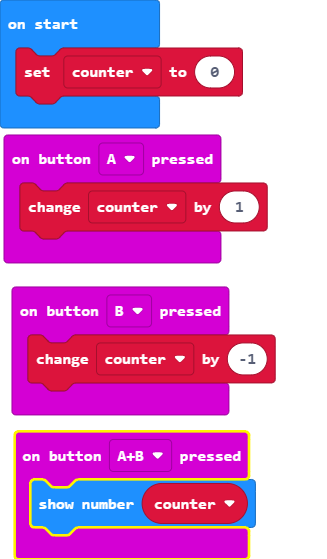
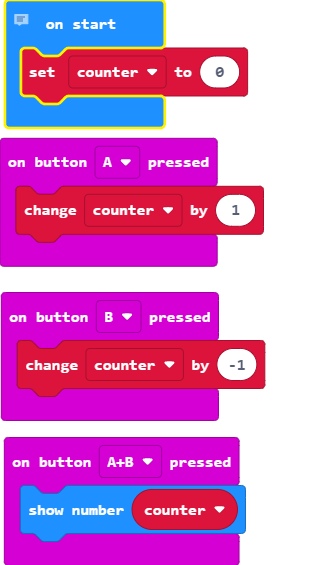
initial comment

Changed region(s): [[0.0, 0.0, 0.8517, 1.0]]

diff --git a/main.ts b/main.ts
@@ -7,5 +7,8 @@ input.onButtonPressed(Button.AB, function () {
 input.onButtonPressed(Button.B, function () {
     counter += -1
 })
+// Created By: Mariam Abugamga
+// Created on: Sept 28, 2020
+// This program uses a counter
 let counter = 0
 counter = 0
